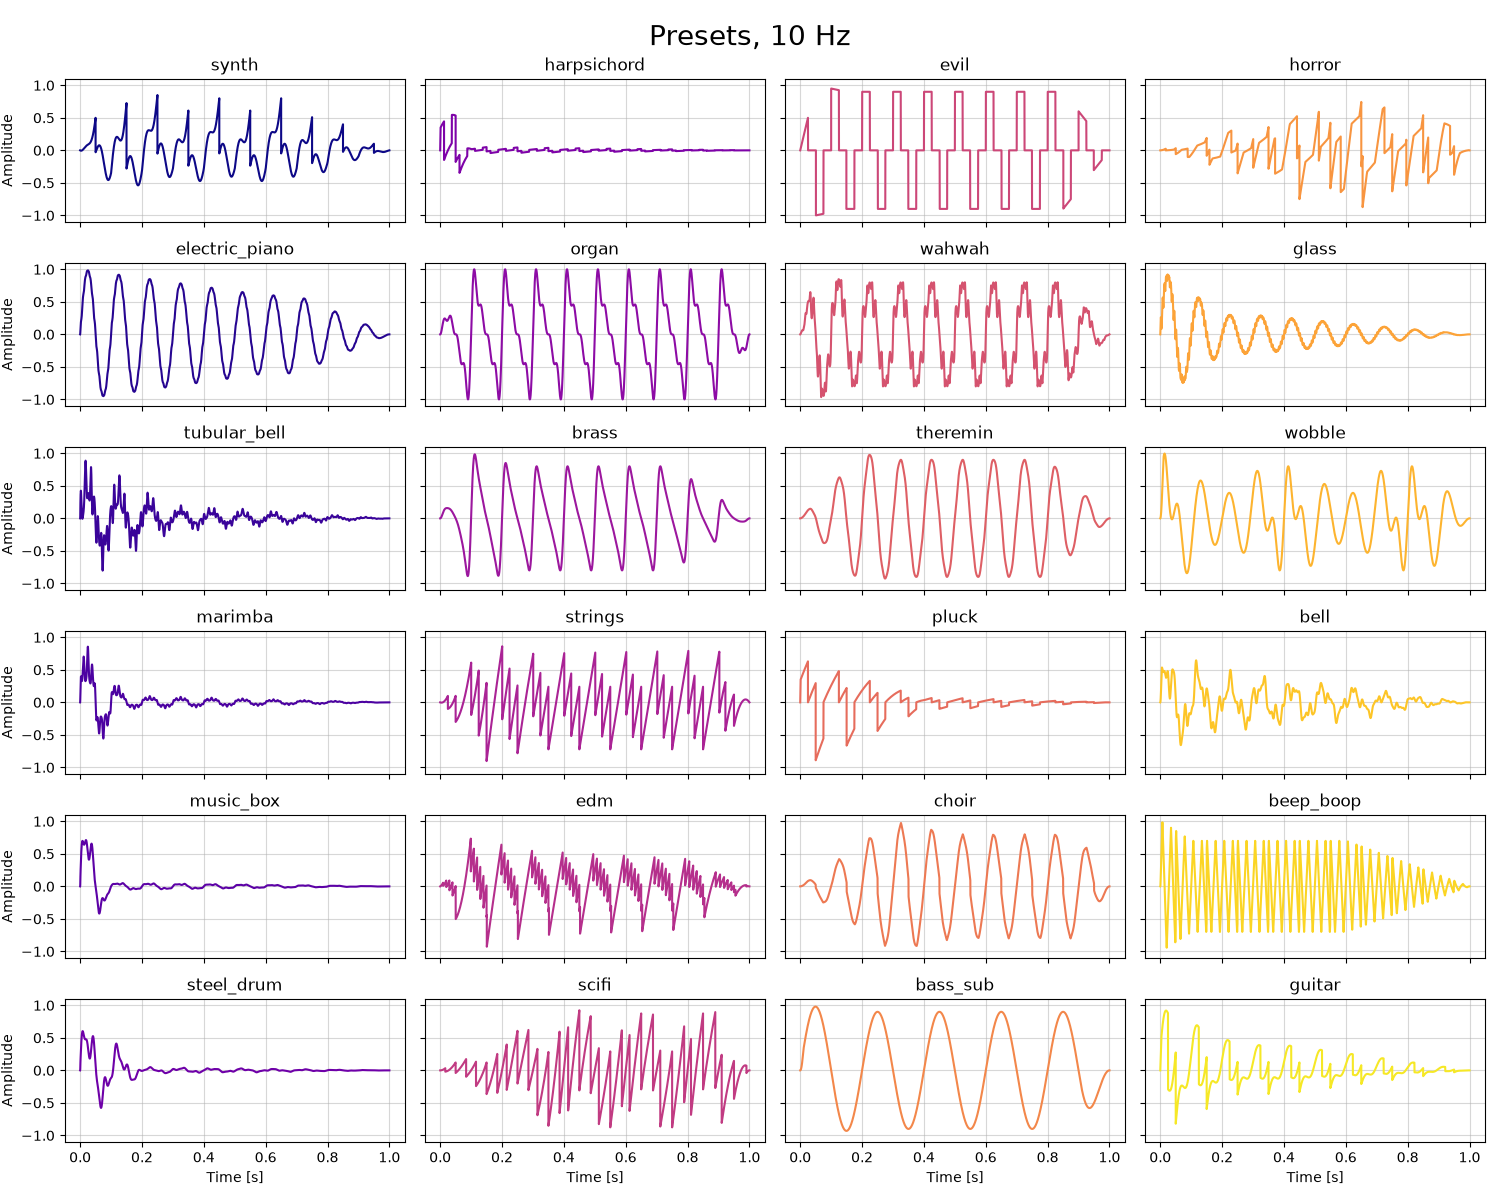
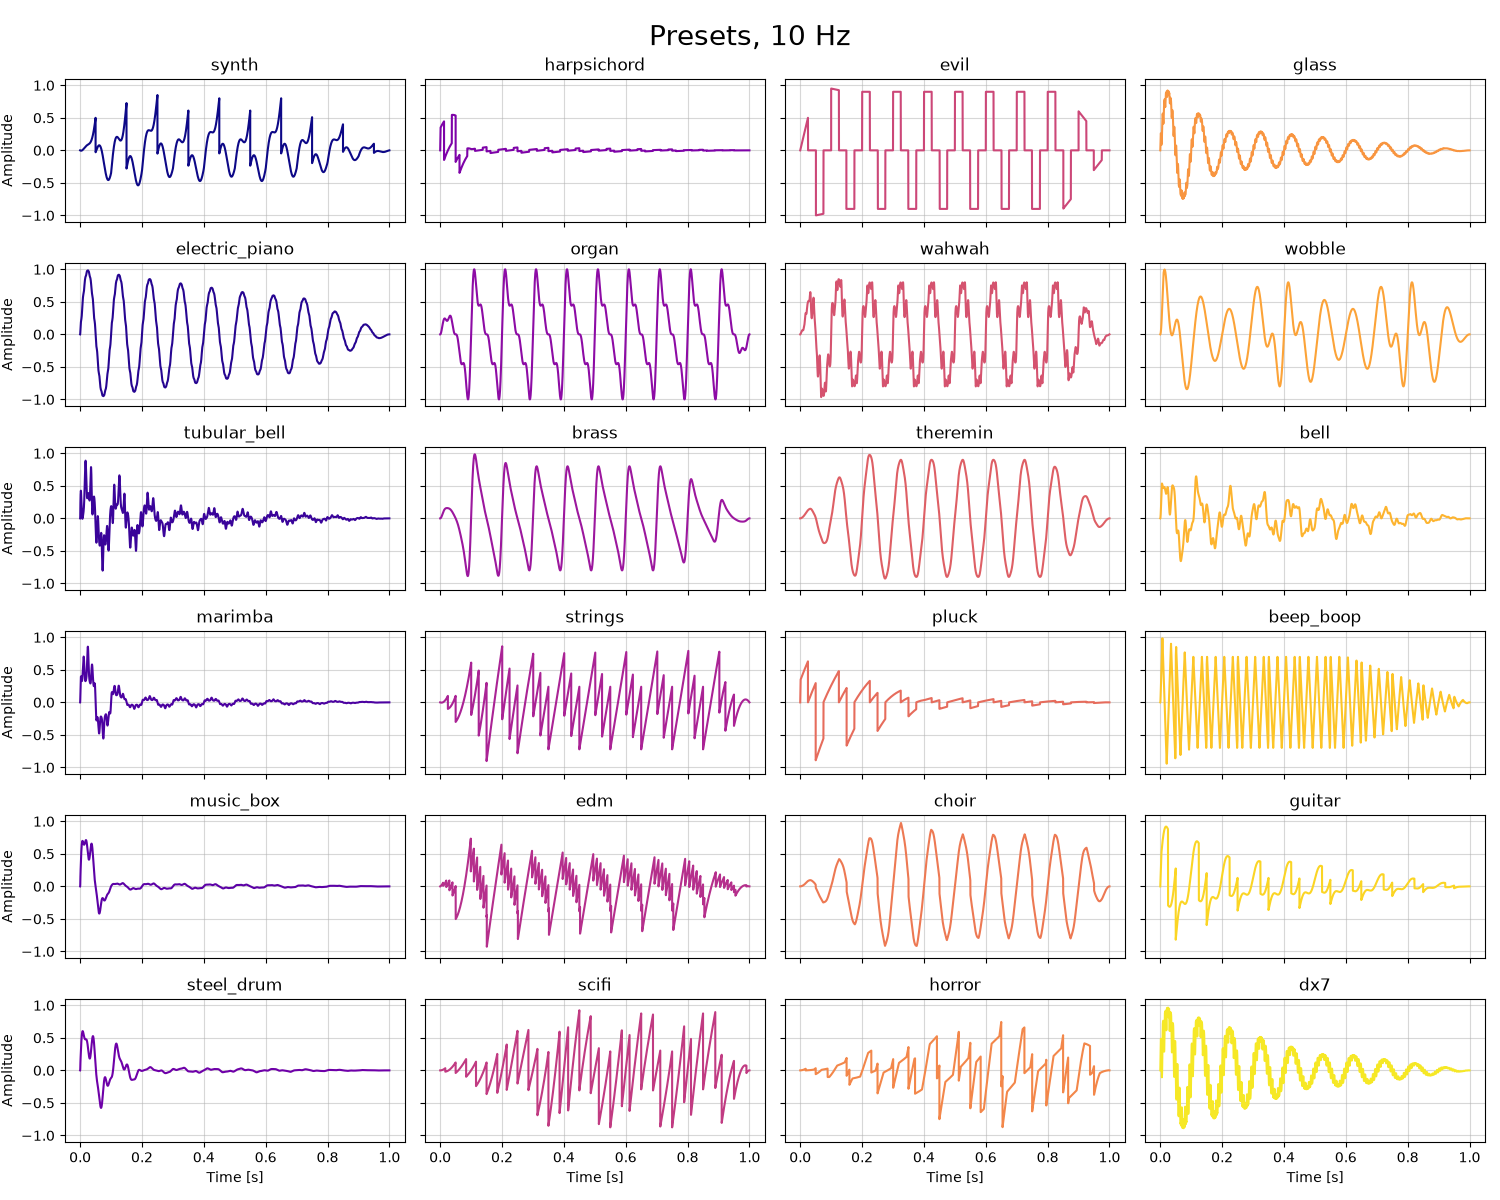
fixed about

diff --git a/about.html b/about.html
@@ -14,6 +14,10 @@
         <a href="index.html">Back to Synthesizer</a>
     </div>
 
+    <p>
+        This project uses a hybrid architecture. The Python engine (using <code>music21</code>) handles offline score parsing and batch WAV rendering. The JavaScript engine handles real-time Digital Signal Processing using the Web Audio API, allowing for instant parameter changes and interactivity.
+    </p>
+
     <!-- SECTION 1: OSCILLATORS -->
     <div class="about-grid">
         <div class="about-column text-col">
@@ -55,7 +59,7 @@
             <pre style="overflow-x: auto;"><code>carrier_phase = (2 * π * frequency * time) + (<span style="color:#9467bd">depth</span> * sin(2 * π * (frequency * <span style="color: #d62728">ratio</span>) * time))</code></pre>
             <p>
                 The <span style="color: #d62728">FM Ratio</span> determines the character of the new harmonics. Integer ratios will have the modulating wave finish its cycle at the same time as the carrier wave, producing harmonic sidebands. For non-integer ratios, the modulating wave drifts in and out of sync with the carrier wave, creating inharmonic sidebands. This creates a metallic or chaotic sound.
-                <br><br>The <span style="color:#9467bd">FM Depth</span>  determines how much the carrier wave is impacted. A FM Depth of 1.0-3.0 gently pushes on the carrier wave, causing a more rich tone. At a value between 5.0 and 10.0, the wave is pushed much harder, causing it to run backwards at times. This creates a harsh and noisy sound.
+                <br><br>The <span style="color:#9467bd">FM Depth</span>  determines how much the carrier wave is impacted. A FM Depth of 1.0-3.0 gently pushes on the carrier wave, causing a more rich tone. At a value between 5.0 and 10.0, the wave is pushed much harder, causing it to run backwards at times. This creates a harsh, noisy, or aggressive timbre.
             </p>
         </div>
     </div>
@@ -144,37 +148,58 @@
         <div class="about-column text-col">
             <h2>ADSR Envelope</h2>
             <p>
-                The ADSR Envelope consists of 5 parts:
+                The ADSR Envelope consists of 5 parts:</p>
                 <ul>
                     <li><strong><span style="color: #1f77b4">Attack</span></strong>: Time it takes for the sound to go from 0 to the maximum level</li>
-                    <li><strong><span style="color: #ff7f0e">Decay</span></strong>: Time it takes for the sound to fall from the initial peak to some set level.</li>
+                    <li><strong><span style="color: #ff7f0e">Decay</span></strong>: Time it takes for the sound to fall from the initial peak to the sustain level.</li>
                     <li><strong><span style="color: #2ca02c">Sustain Time</span></strong>: Time the sound is held at a set level.</li>
                     <li><strong><span style="color: #2ca02c">Sustain Level</span></strong>: Amplitude the sound is held at.</li>
                     <li><strong><span style="color: #d62728">Release</span></strong>: Time it takes for the sound to fade to silence.</li>
                 </ul>
-                For real-time keyboard and MIDI playback, the ADSR envelope is handled via a Web Audio GainNode. This allows for polyphony: when multiple keys are pressed, each voice independently scales its volume to prevent digital clipping, using an equal-power scaling formula.
+                <p>For real-time keyboard and MIDI playback, the ADSR envelope is handled via a Web Audio GainNode. This allows for polyphony: when multiple keys are pressed, each voice independently scales its volume to prevent digital clipping, using an equal-power scaling formula.
             </p>
         </div>
     </div>
 
-    <!-- SECTION 5: READ SCORE -->
+    <!-- SECTION 5: PRESETS -->
     <div class="about-grid">
         <div class="about-column text-col">
-            <h2>Score Parsing</h2>
+            <h2>Presets</h2>
             <p>
-                The Python engine uses <code>music21</code> to parse MusicXML (.mxl), Humdrum (.krn), or RomanText (.rntxt) files. It extracts the notes, chords, and rests of the score as well as their start times, durations and dynamics. This can be fed into the ADSR to play full tracks, including complex scores with multiple parts and voices.  
-                <br>The Python script is used to extract sections of the score into .json files to be read by the JavaScript scripts. 
+                Presets are stored in a <code>.json</code> file, which can be read by both the Python engine and the JS engine. The Python engine reads them for rendering offline audio, and the JavaScript engine reads them for real-time playback in the browser.
+                The preset menu dynamically loads the JSON parameters into the Web Audio engine, updating all sliders instantly.
             </p>
         </div>
         <div class="about-column image-col">
             <figure>
+                <img src="images/presets.png" alt="Presets" class="about-img">
+                <figcaption>All available presets at 10 Hz for 1 second</figcaption>
+            </figure>
+        </div>
+    </div>
+
+    <!-- SECTION 6: READ SCORE -->
+    <div class="about-grid">
+        <div class="about-column image-col">
+            <figure>
                 <figcaption>Chopin Etude Op. 10, No. 9, using the "EDM" preset</figcaption>
-               <audio controls src="audio/etude-opus-10-no-9-in-f-minor.mp3"></audio>
+                <audio controls src="audio/etude-opus-10-no-9-in-f-minor.mp3"></audio>
             </figure>
             <figure>
                 <figcaption>Liliʻuokalani Aloha ʻOe, using the "Electric Piano" preset</figcaption>
-               <audio controls src="audio/aloha.mp3"></audio>
+                <audio controls src="audio/aloha.mp3"></audio>
             </figure>
+        </div>
+        <div class="about-column text-col">
+            <h2>Score Parsing</h2>
+            <!-- Removed the <p> tag here so the browser doesn't break the layout -->
+            The Python engine uses <code>music21</code> to parse MusicXML (.mxl), Humdrum (.krn), or RomanText (.rntxt) files. 
+            <ul style="margin-top: 1rem;">
+                <li>Extracts notes, chords, and rests with absolute start times and durations.</li>
+                <li>Interpolates crescendos/decrescendos.</li>
+                <li>Handles complex formatting, such as tied notes and hidden padding rests.</li>
+                <li>Outputs a clean JSON file for the JavaScript frontend.</li>
+            </ul>
         </div>
     </div>
 

diff --git a/styles.css b/styles.css
@@ -49,13 +49,6 @@
 }
 
 /* Oscillator Grid */
-#oscillators {
-    display: flex;
-    flex-direction: row;
-    gap: 1rem;
-    margin-bottom: 1rem;
-}
-
 .osc-row {
     display: flex;
     flex-wrap: wrap;
@@ -71,13 +64,6 @@
     display: flex;
     justify-content: space-between;
     margin-bottom: 4px;
-}
-
-.osc-row label output,
-.controls output {
-    color: var(--accent);
-    font-family: monospace;
-    font-weight: 600;
 }
 
 .osc-row.disabled {
@@ -132,11 +118,6 @@ input[type="range"]:disabled {
 
 .osc-row.disabled .toggle-btn {
     background: #888;
-}
-
-input[type="range"]:disabled {
-    opacity: 0.3;
-    cursor: not-allowed;
 }
 
 .controls label {
@@ -195,7 +176,26 @@ input[type="range"]:disabled {
     border: 1px solid var(--border-color)
 }
 
-.controls output { text-align: right; font-family: monospace; }
+select {
+    padding: 0.4rem;
+    border-radius: 4px;
+    border: 1px solid var(--border-color);
+    background: var(--card-bg);
+    color: var(--text-main);
+    font-family: inherit;
+    font-size: 0.9rem;
+    font-weight: 600;
+    cursor: pointer;
+}
+
+.osc-row label output,
+.controls output {
+    color: var(--accent);
+    font-family: monospace;
+    text-align: right;
+    font-weight: 600;
+}
+
 .visualizer-container {
     display: flex;
     flex-wrap: wrap;
@@ -297,10 +297,9 @@ p {
 
 audio {
     width: 100%;
+    min-height: 40px;
     margin-top: 0.5rem;
     margin-bottom: 1rem;
-    border: 1px solid var(--border-color);
-    border-radius: 30px;
 }
 
 audio::-webkit-media-controls-panel {
@@ -357,23 +356,14 @@ pre {
 
 #oscillators {
     flex-direction: column; 
+    gap: 1rem;
+    margin-bottom: 1rem;
 }
 
 .synth-visuals .keyboard {
     display: flex;
     justify-content: center;
     flex-wrap: nowrap;
-}
-
-@media (max-width: 850px) {
-    .synth-layout {
-        grid-template-columns: 1fr;
-    }
-    .synth-visuals {
-        position: static;
-        order: -1;
-        margin-bottom: 2rem;
-    }
 }
 
 /* ==========================================================================
@@ -450,5 +440,57 @@ pre {
     }
     .keyboard {
         margin: 0 auto;
+    }
+}
+
+@media (max-width: 850px) {
+    .synth-layout {
+        grid-template-columns: 1fr;
+    }
+    .synth-visuals {
+        position: static;
+        order: -1;
+        margin-bottom: 2rem;
+    }
+
+    .osc-row {
+        display: grid;
+        grid-template-columns: repeat(6, 1fr);
+        gap: 0.5rem 1rem;
+    }
+
+    .osc-row .toggle-btn {
+        grid-column: span 1;
+        width: 100%;
+        padding: 0.4rem 0;
+    }
+    .osc-row .osc-wave {
+        grid-column: span 2;
+        width: 100%;
+    }
+    .osc-row label:nth-of-type(1) {
+        grid-column: span 3;
+    }
+
+    .osc-row label:nth-of-type(2) {
+        grid-column: span 3;
+    }
+    .osc-row label:nth-of-type(3) {
+        grid-column: span 3;
+    }
+
+    .osc-row label:nth-of-type(4) {
+        grid-column: span 3;
+    }
+    .osc-row label:nth-of-type(5) {
+        grid-column: span 3;
+    }
+
+    .osc-row > div[style*="flex-basis"] {
+        display: none;
+    }
+
+    .osc-row label {
+        min-width: 0;
     }
 }
